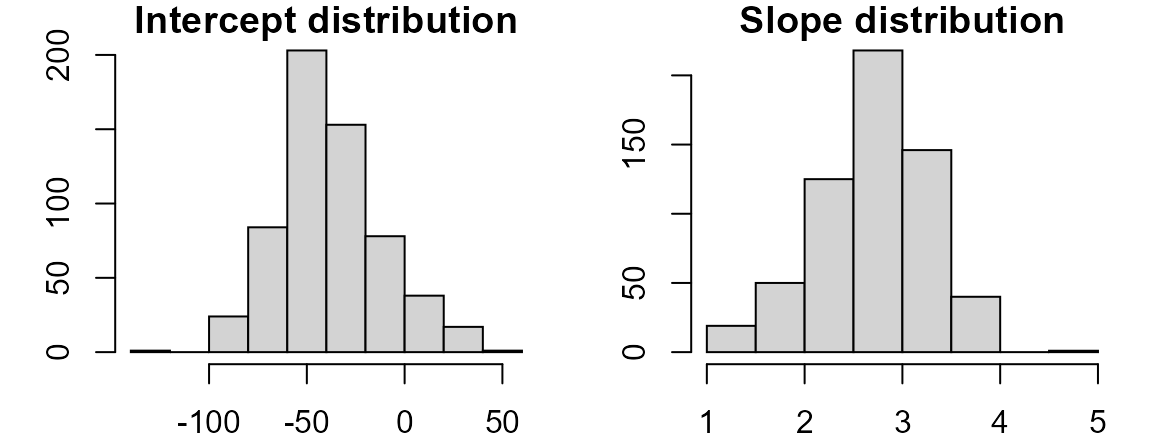
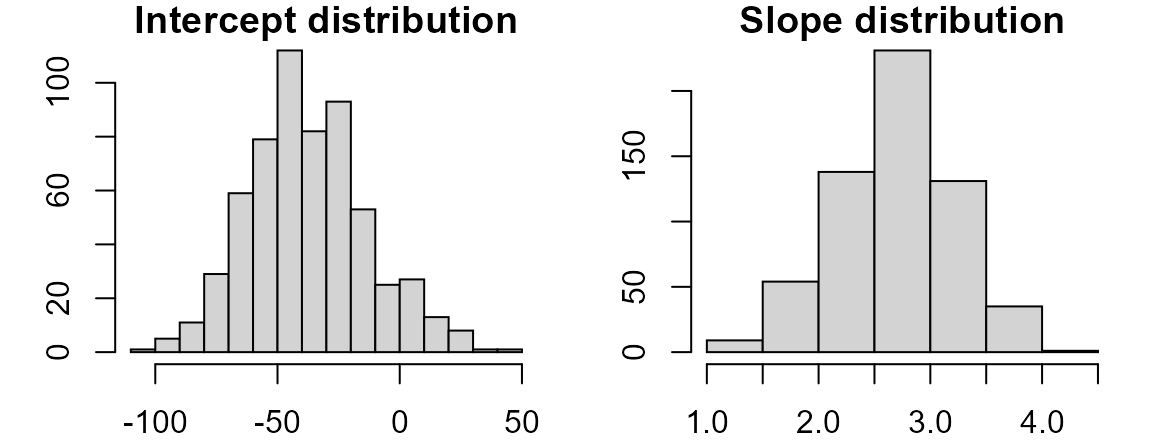
added news.md

diff --git a/docs/articles/RLine.html b/docs/articles/RLine.html
@@ -61,6 +61,9 @@
     </li>
   </ul>
 </li>
+<li>
+  <a href="../news/index.html">Changelog</a>
+</li>
       </ul>
 <ul class="nav navbar-nav navbar-right">
 <li>
@@ -283,9 +286,9 @@ median(y_{l,m,r} - b * x_{l,m,r})
 <code class="sourceCode R"><span class="va">conf</span> <span class="op">&lt;-</span> <span class="fu"><a href="https://rdrr.io/r/base/t.html">t</a></span><span class="op">(</span><span class="fu"><a href="https://rdrr.io/r/base/data.frame.html">data.frame</a></span><span class="op">(</span>Intercept <span class="op">=</span> <span class="fu"><a href="https://rdrr.io/r/stats/quantile.html">quantile</a></span><span class="op">(</span><span class="va">bt</span><span class="op">[</span>,<span class="fl">1</span><span class="op">]</span>, p<span class="op">=</span><span class="fu"><a href="https://rdrr.io/r/base/c.html">c</a></span><span class="op">(</span><span class="fl">0.05</span>,<span class="fl">0.95</span><span class="op">)</span> <span class="op">)</span>,
                      Slope <span class="op">=</span> <span class="fu"><a href="https://rdrr.io/r/stats/quantile.html">quantile</a></span><span class="op">(</span><span class="va">bt</span><span class="op">[</span>,<span class="fl">2</span><span class="op">]</span>, p<span class="op">=</span><span class="fu"><a href="https://rdrr.io/r/base/c.html">c</a></span><span class="op">(</span><span class="fl">0.05</span>,<span class="fl">0.95</span><span class="op">)</span> <span class="op">)</span><span class="op">)</span><span class="op">)</span>
 <span class="va">conf</span>
-<span class="co">#&gt;                    5%       95%</span>
-<span class="co">#&gt;  Intercept -77.083618 11.905761</span>
-<span class="co">#&gt;  Slope       1.674236  3.565211</span></code></pre></div>
+<span class="co">#&gt;                    5%      95%</span>
+<span class="co">#&gt;  Intercept -75.828131 7.763572</span>
+<span class="co">#&gt;  Slope       1.725534 3.527090</span></code></pre></div>
 </div>
 <div id="resampling-the-x-y-paired-values" class="section level3">
 <h3 class="hasAnchor">
@@ -311,8 +314,8 @@ median(y_{l,m,r} - b * x_{l,m,r})
                      Slope <span class="op">=</span> <span class="fu"><a href="https://rdrr.io/r/stats/quantile.html">quantile</a></span><span class="op">(</span><span class="va">bt</span><span class="op">[</span>,<span class="fl">2</span><span class="op">]</span>, p<span class="op">=</span><span class="fu"><a href="https://rdrr.io/r/base/c.html">c</a></span><span class="op">(</span><span class="fl">0.05</span>,<span class="fl">0.95</span><span class="op">)</span> <span class="op">)</span><span class="op">)</span><span class="op">)</span>
 <span class="va">conf</span>
 <span class="co">#&gt;                     5%       95%</span>
-<span class="co">#&gt;  Intercept -108.668421 15.031034</span>
-<span class="co">#&gt;  Slope        1.643678  4.157895</span></code></pre></div>
+<span class="co">#&gt;  Intercept -116.523077 11.763116</span>
+<span class="co">#&gt;  Slope        1.643678  4.338462</span></code></pre></div>
 </div>
 </div>
 <div id="references" class="section level1">

diff --git a/docs/reference/age_height.html b/docs/reference/age_height.html
@@ -105,6 +105,9 @@ height and weight from urban private and rural public schools." />
     </li>
   </ul>
 </li>
+<li>
+  <a href="../news/index.html">Changelog</a>
+</li>
       </ul>
       <ul class="nav navbar-nav navbar-right">
         <li>

diff --git a/docs/reference/eda_boxls.html b/docs/reference/eda_boxls.html
@@ -103,6 +103,9 @@ option to equalize levels and/or spreads." />
     </li>
   </ul>
 </li>
+<li>
+  <a href="../news/index.html">Changelog</a>
+</li>
       </ul>
       <ul class="nav navbar-nav navbar-right">
         <li>

diff --git a/docs/reference/tukeyedar.html b/docs/reference/tukeyedar.html
@@ -103,6 +103,9 @@ in exploring datasets in a robust manner." />
     </li>
   </ul>
 </li>
+<li>
+  <a href="../news/index.html">Changelog</a>
+</li>
       </ul>
       <ul class="nav navbar-nav navbar-right">
         <li>

diff --git a/docs/reference/neoplasms.html b/docs/reference/neoplasms.html
@@ -103,6 +103,9 @@ and breast cancer mortality rate." />
     </li>
   </ul>
 </li>
+<li>
+  <a href="../news/index.html">Changelog</a>
+</li>
       </ul>
       <ul class="nav navbar-nav navbar-right">
         <li>

diff --git a/docs/reference/eda_3pt.html b/docs/reference/eda_3pt.html
@@ -111,6 +111,9 @@ The function will also return the
     </li>
   </ul>
 </li>
+<li>
+  <a href="../news/index.html">Changelog</a>
+</li>
       </ul>
       <ul class="nav navbar-nav navbar-right">
         <li>

diff --git a/docs/reference/nine_point.html b/docs/reference/nine_point.html
@@ -104,6 +104,9 @@ book." />
     </li>
   </ul>
 </li>
+<li>
+  <a href="../news/index.html">Changelog</a>
+</li>
       </ul>
       <ul class="nav navbar-nav navbar-right">
         <li>

diff --git a/docs/articles/index.html b/docs/articles/index.html
@@ -101,6 +101,9 @@
     </li>
   </ul>
 </li>
+<li>
+  <a href="../news/index.html">Changelog</a>
+</li>
       </ul>
       <ul class="nav navbar-nav navbar-right">
         <li>

diff --git a/docs/reference/eda_bipow.html b/docs/reference/eda_bipow.html
@@ -103,6 +103,9 @@
     </li>
   </ul>
 </li>
+<li>
+  <a href="../news/index.html">Changelog</a>
+</li>
       </ul>
       <ul class="nav navbar-nav navbar-right">
         <li>

diff --git a/docs/reference/eda_lm.html b/docs/reference/eda_lm.html
@@ -105,6 +105,9 @@
     </li>
   </ul>
 </li>
+<li>
+  <a href="../news/index.html">Changelog</a>
+</li>
       </ul>
       <ul class="nav navbar-nav navbar-right">
         <li>

diff --git a/docs/reference/eda_lsum.html b/docs/reference/eda_lsum.html
@@ -105,6 +105,9 @@
     </li>
   </ul>
 </li>
+<li>
+  <a href="../news/index.html">Changelog</a>
+</li>
       </ul>
       <ul class="nav navbar-nav navbar-right">
         <li>

diff --git a/docs/reference/eda_re.html b/docs/reference/eda_re.html
@@ -102,6 +102,9 @@
     </li>
   </ul>
 </li>
+<li>
+  <a href="../news/index.html">Changelog</a>
+</li>
       </ul>
       <ul class="nav navbar-nav navbar-right">
         <li>
